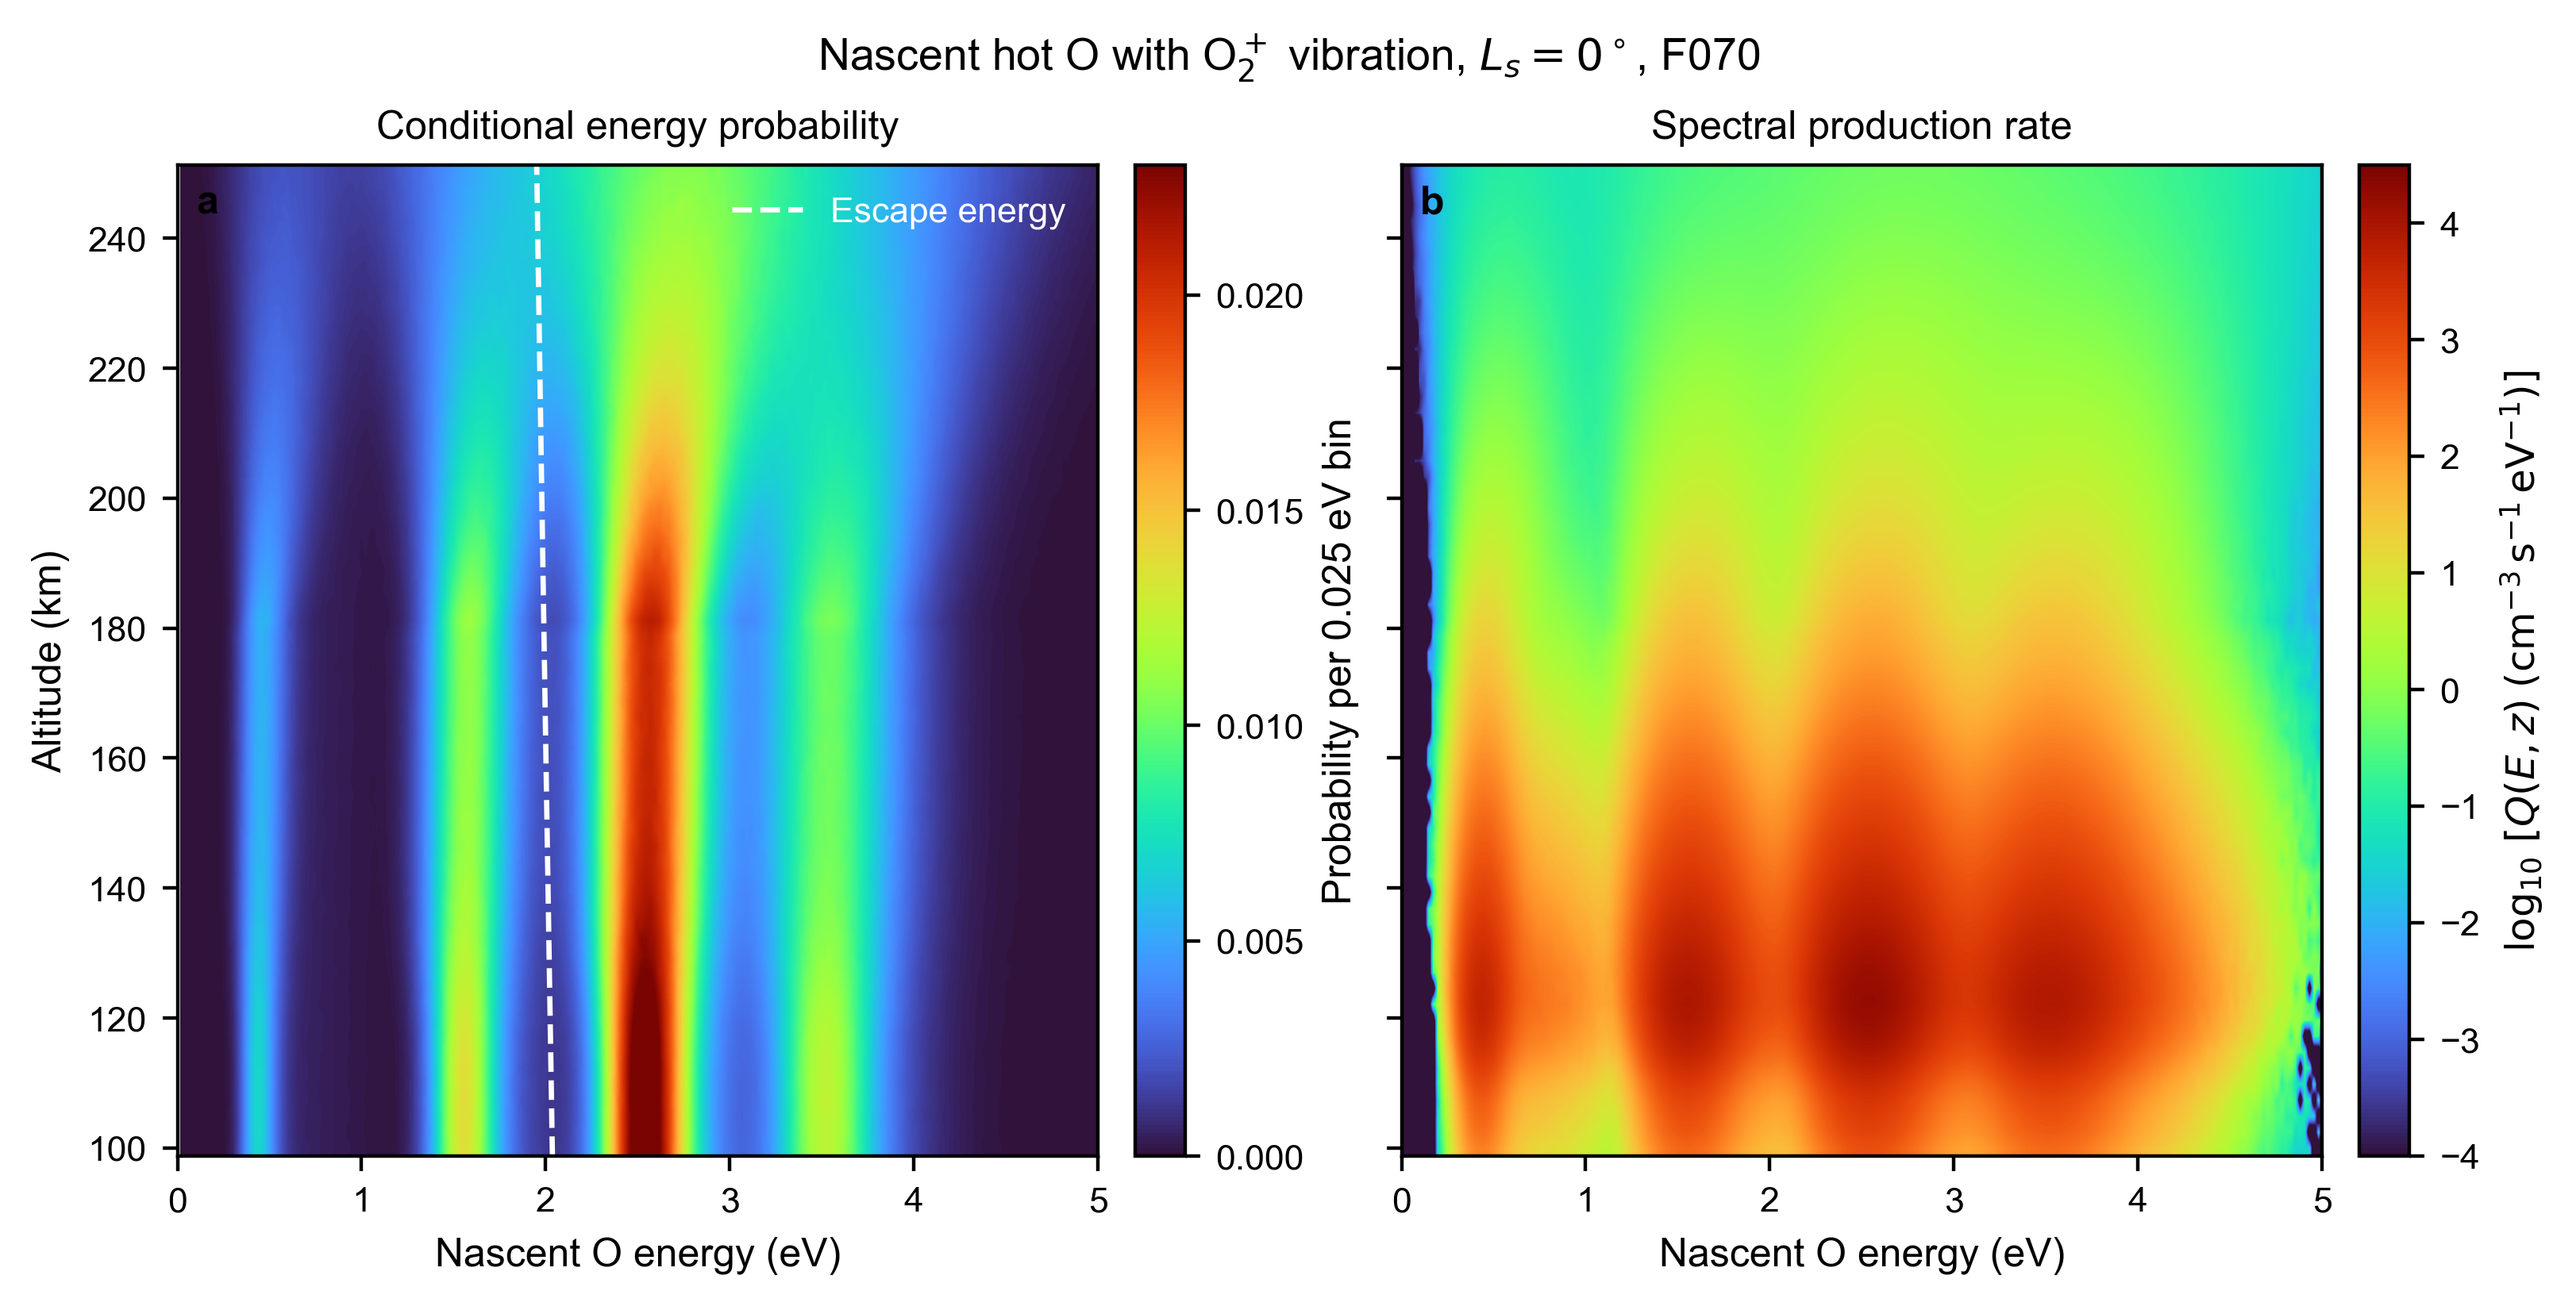
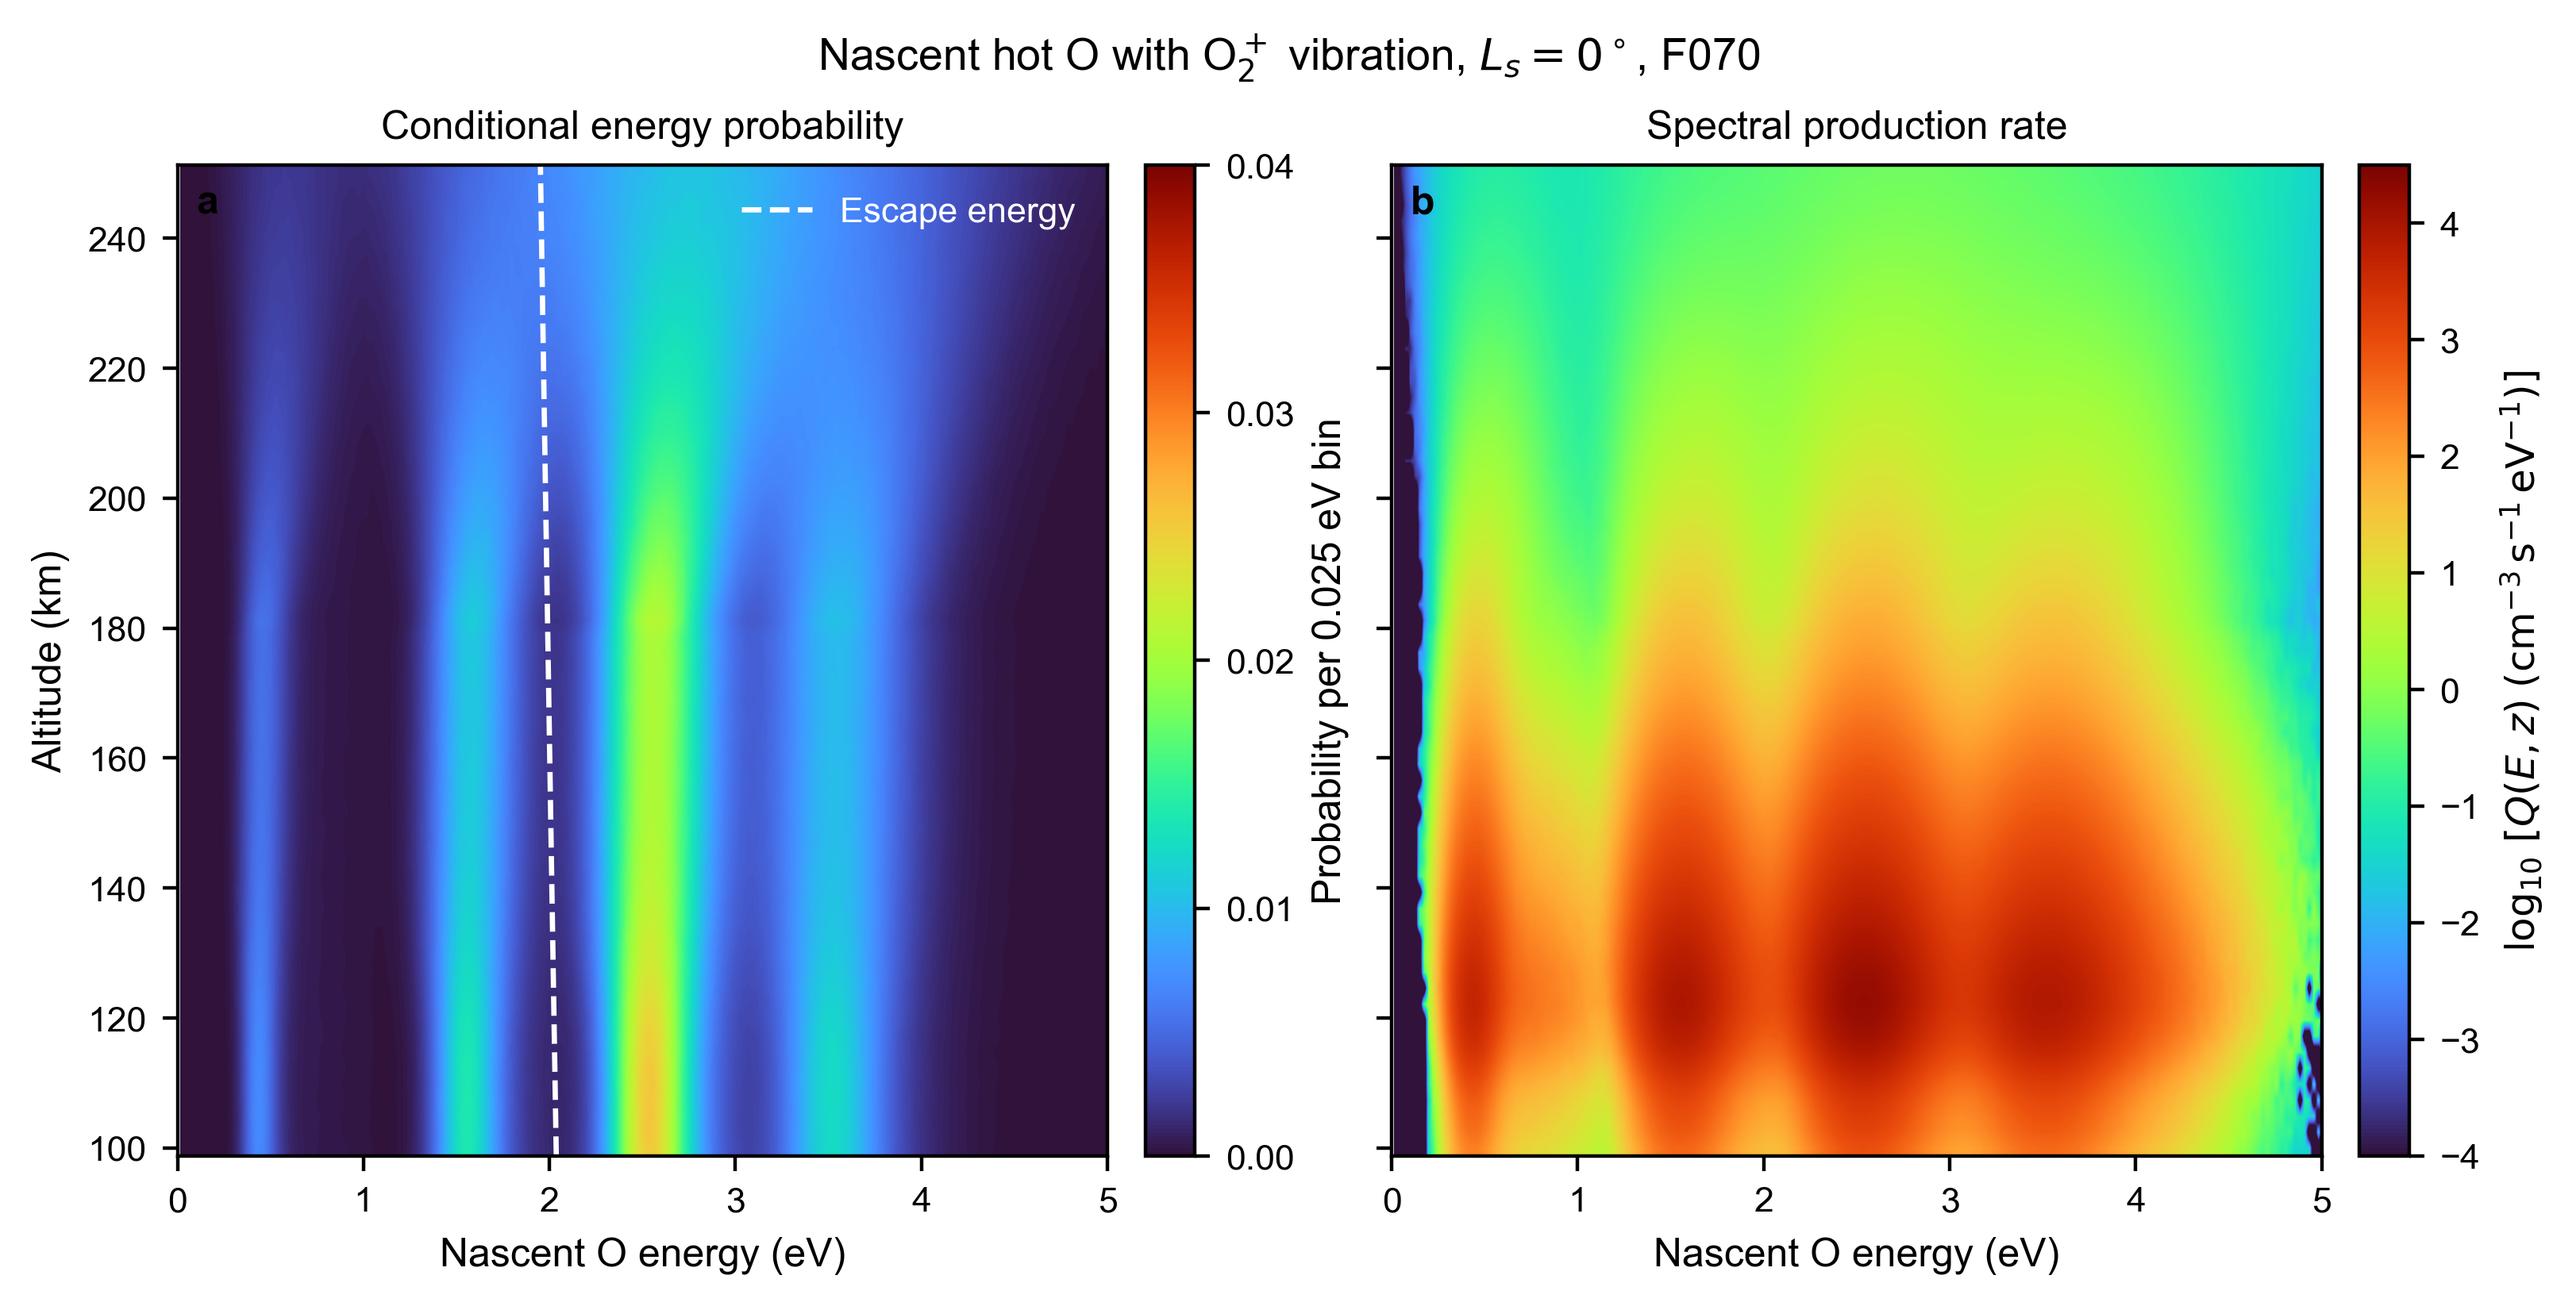
Fix probability color scale at 0.04

diff --git a/reproduce_hot_o_nascent_energy_map.py b/reproduce_hot_o_nascent_energy_map.py
@@ -282,7 +282,6 @@ def make_combined_figure(
         sharey=True,
         constrained_layout=True,
     )
-    positive_values = energy_bin_probability[energy_bin_probability > 0.0]
     probability_image = axes[0].imshow(
         energy_bin_probability,
         origin="lower",
@@ -296,7 +295,7 @@ def make_combined_figure(
         interpolation=PLOT_INTERPOLATION,
         cmap="turbo",
         vmin=0.0,
-        vmax=float(np.percentile(positive_values, 99.5)),
+        vmax=0.04,
         rasterized=True,
     )
     axes[0].plot(
@@ -322,6 +321,8 @@ def make_combined_figure(
         probability_image,
         ax=axes[0],
         pad=0.03,
+        ticks=np.arange(0.0, 0.041, 0.01),
+        format="%.2f",
     )
     probability_colorbar.set_label(
         f"Probability per {np.diff(ENERGY_EDGES_EV)[0]:.3f} eV bin"
